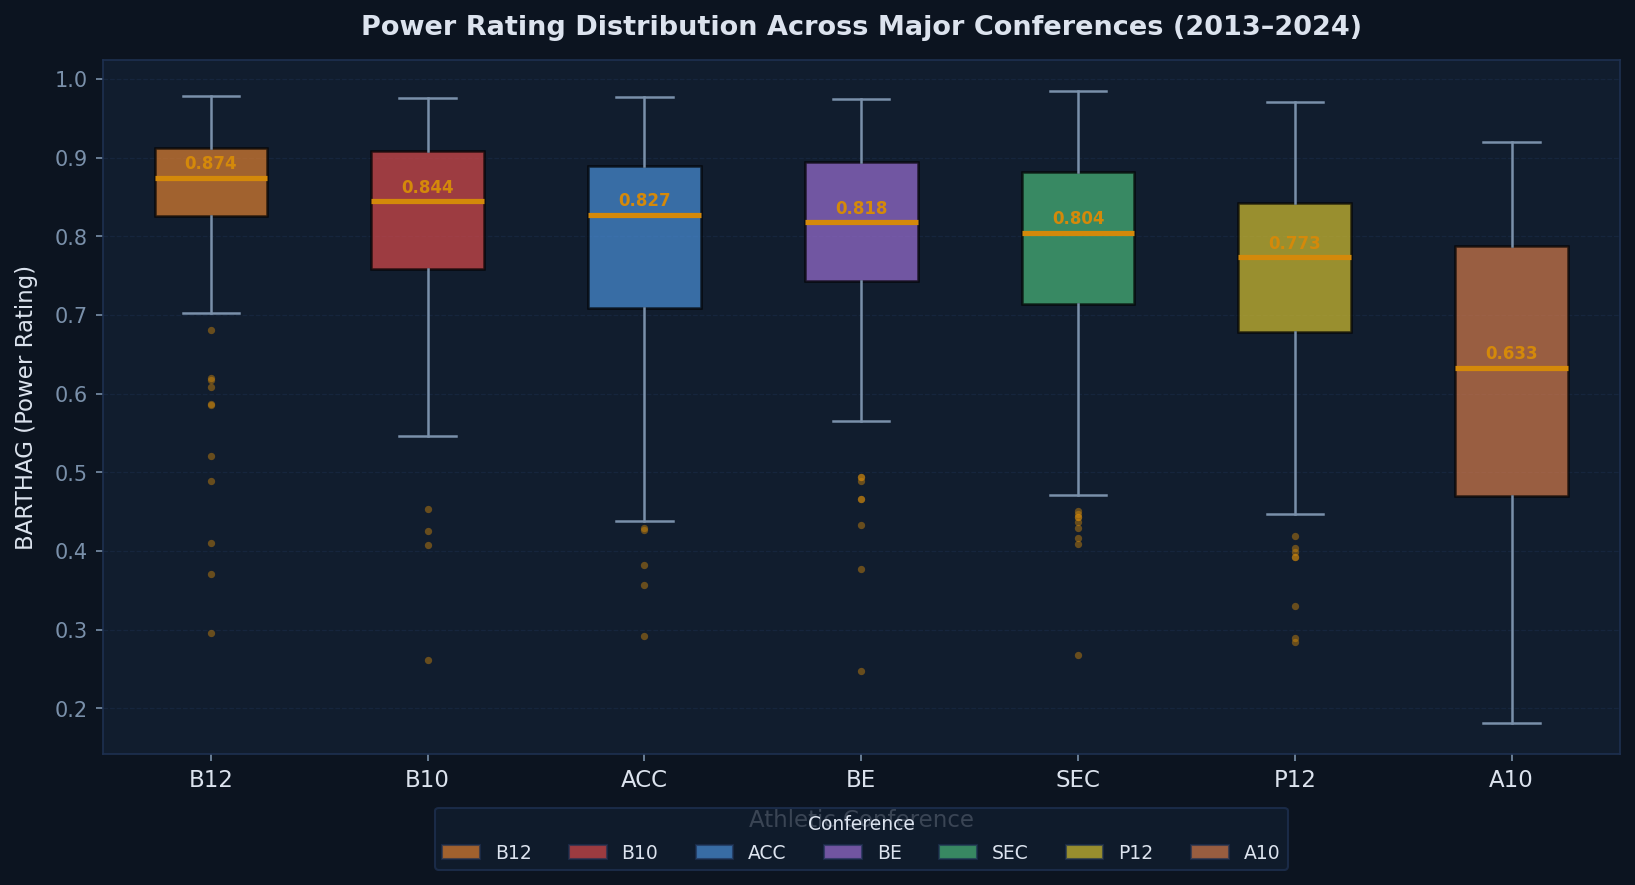
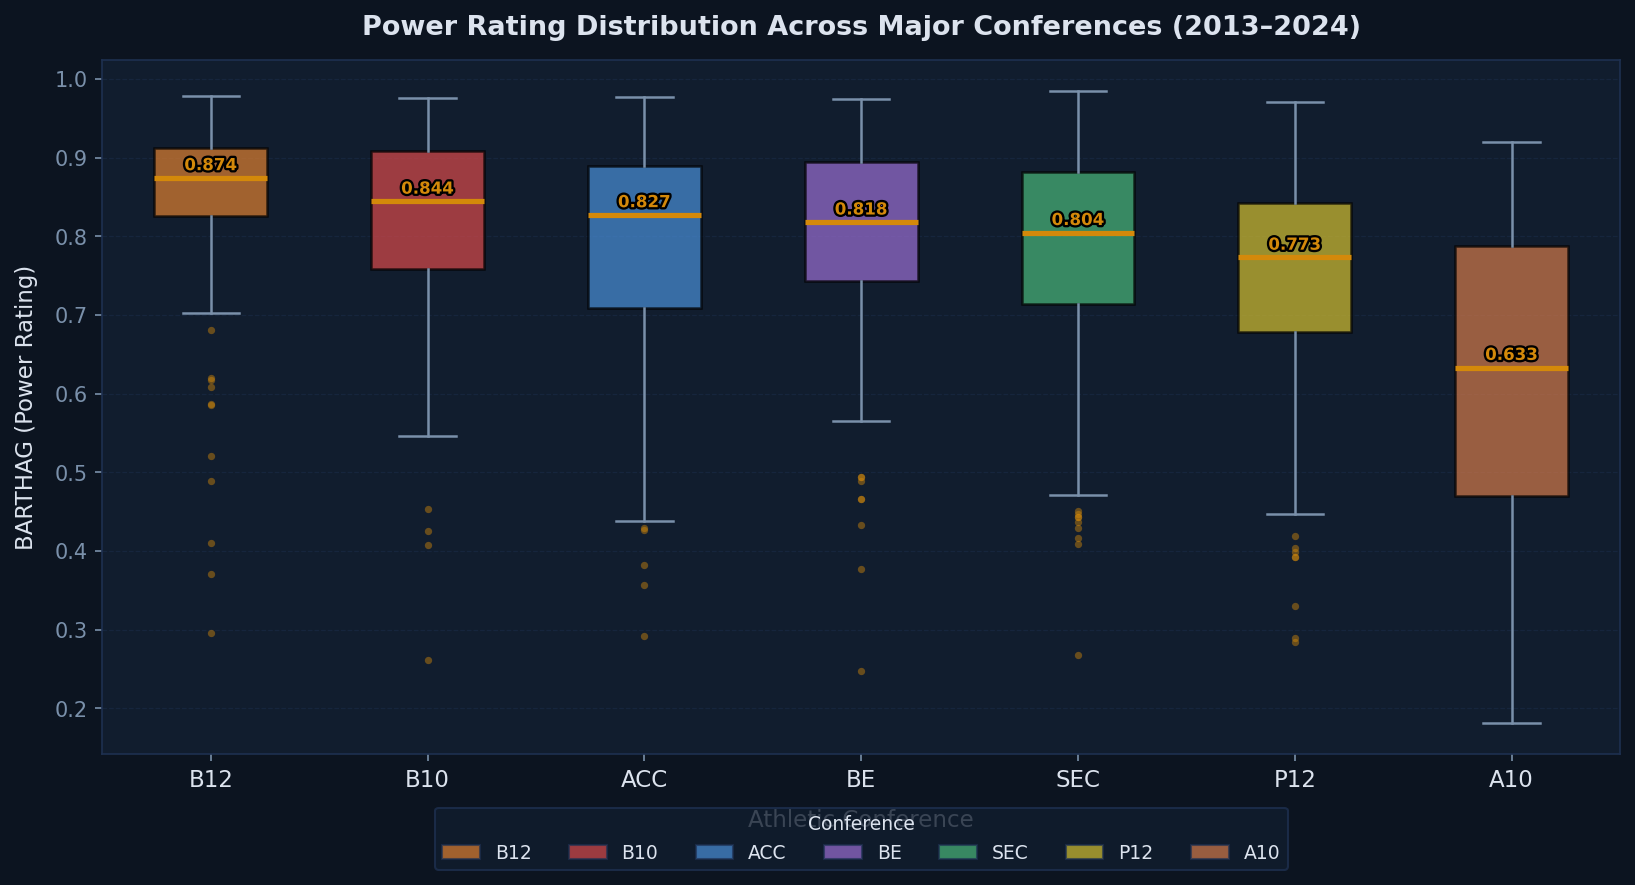
make viz1's box labels more prominent using black drop shadow

diff --git a/python/generate_charts.py b/python/generate_charts.py
@@ -17,6 +17,7 @@ matplotlib.use("Agg")
 import matplotlib.pyplot as plt
 import matplotlib.patches as mpatches
 from matplotlib.gridspec import GridSpec
+import matplotlib.patheffects as pe
 
 import seaborn as sns
 import altair as alt
@@ -164,11 +165,16 @@ def viz1_boxplot(df: pd.DataFrame) -> None:
     # Median value annotations
     for i, conf in enumerate(conf_order, start=1):
         med = cdf.loc[cdf["CONF"] == conf, "BARTHAG"].median()
-        ax.text(
+        txt = ax.text(
             i, med + 0.006, f"{med:.3f}",
             ha="center", va="bottom",
             fontsize=8, color=ACCENT, fontweight="bold", zorder=6
         )
+
+        txt.set_path_effects([
+            pe.Stroke(linewidth=2.2, foreground="black"),
+            pe.Normal()
+        ])
 
     ax.set_xticks(range(1, len(conf_order) + 1))
     ax.set_xticklabels(conf_order, fontsize=11, color=TEXT)
@@ -478,7 +484,7 @@ if __name__ == "__main__":
     df = load_data()
     print(f"  Loaded {len(df)} rows\n")
     viz1_boxplot(df)
-    viz2_radar(df)
-    viz3_scatter_facet(df)
-    viz4_altair(df)
+    # viz2_radar(df)
+    # viz3_scatter_facet(df)
+    # viz4_altair(df)
     print("\nDone. All assets written to charts/ and data/\n")
